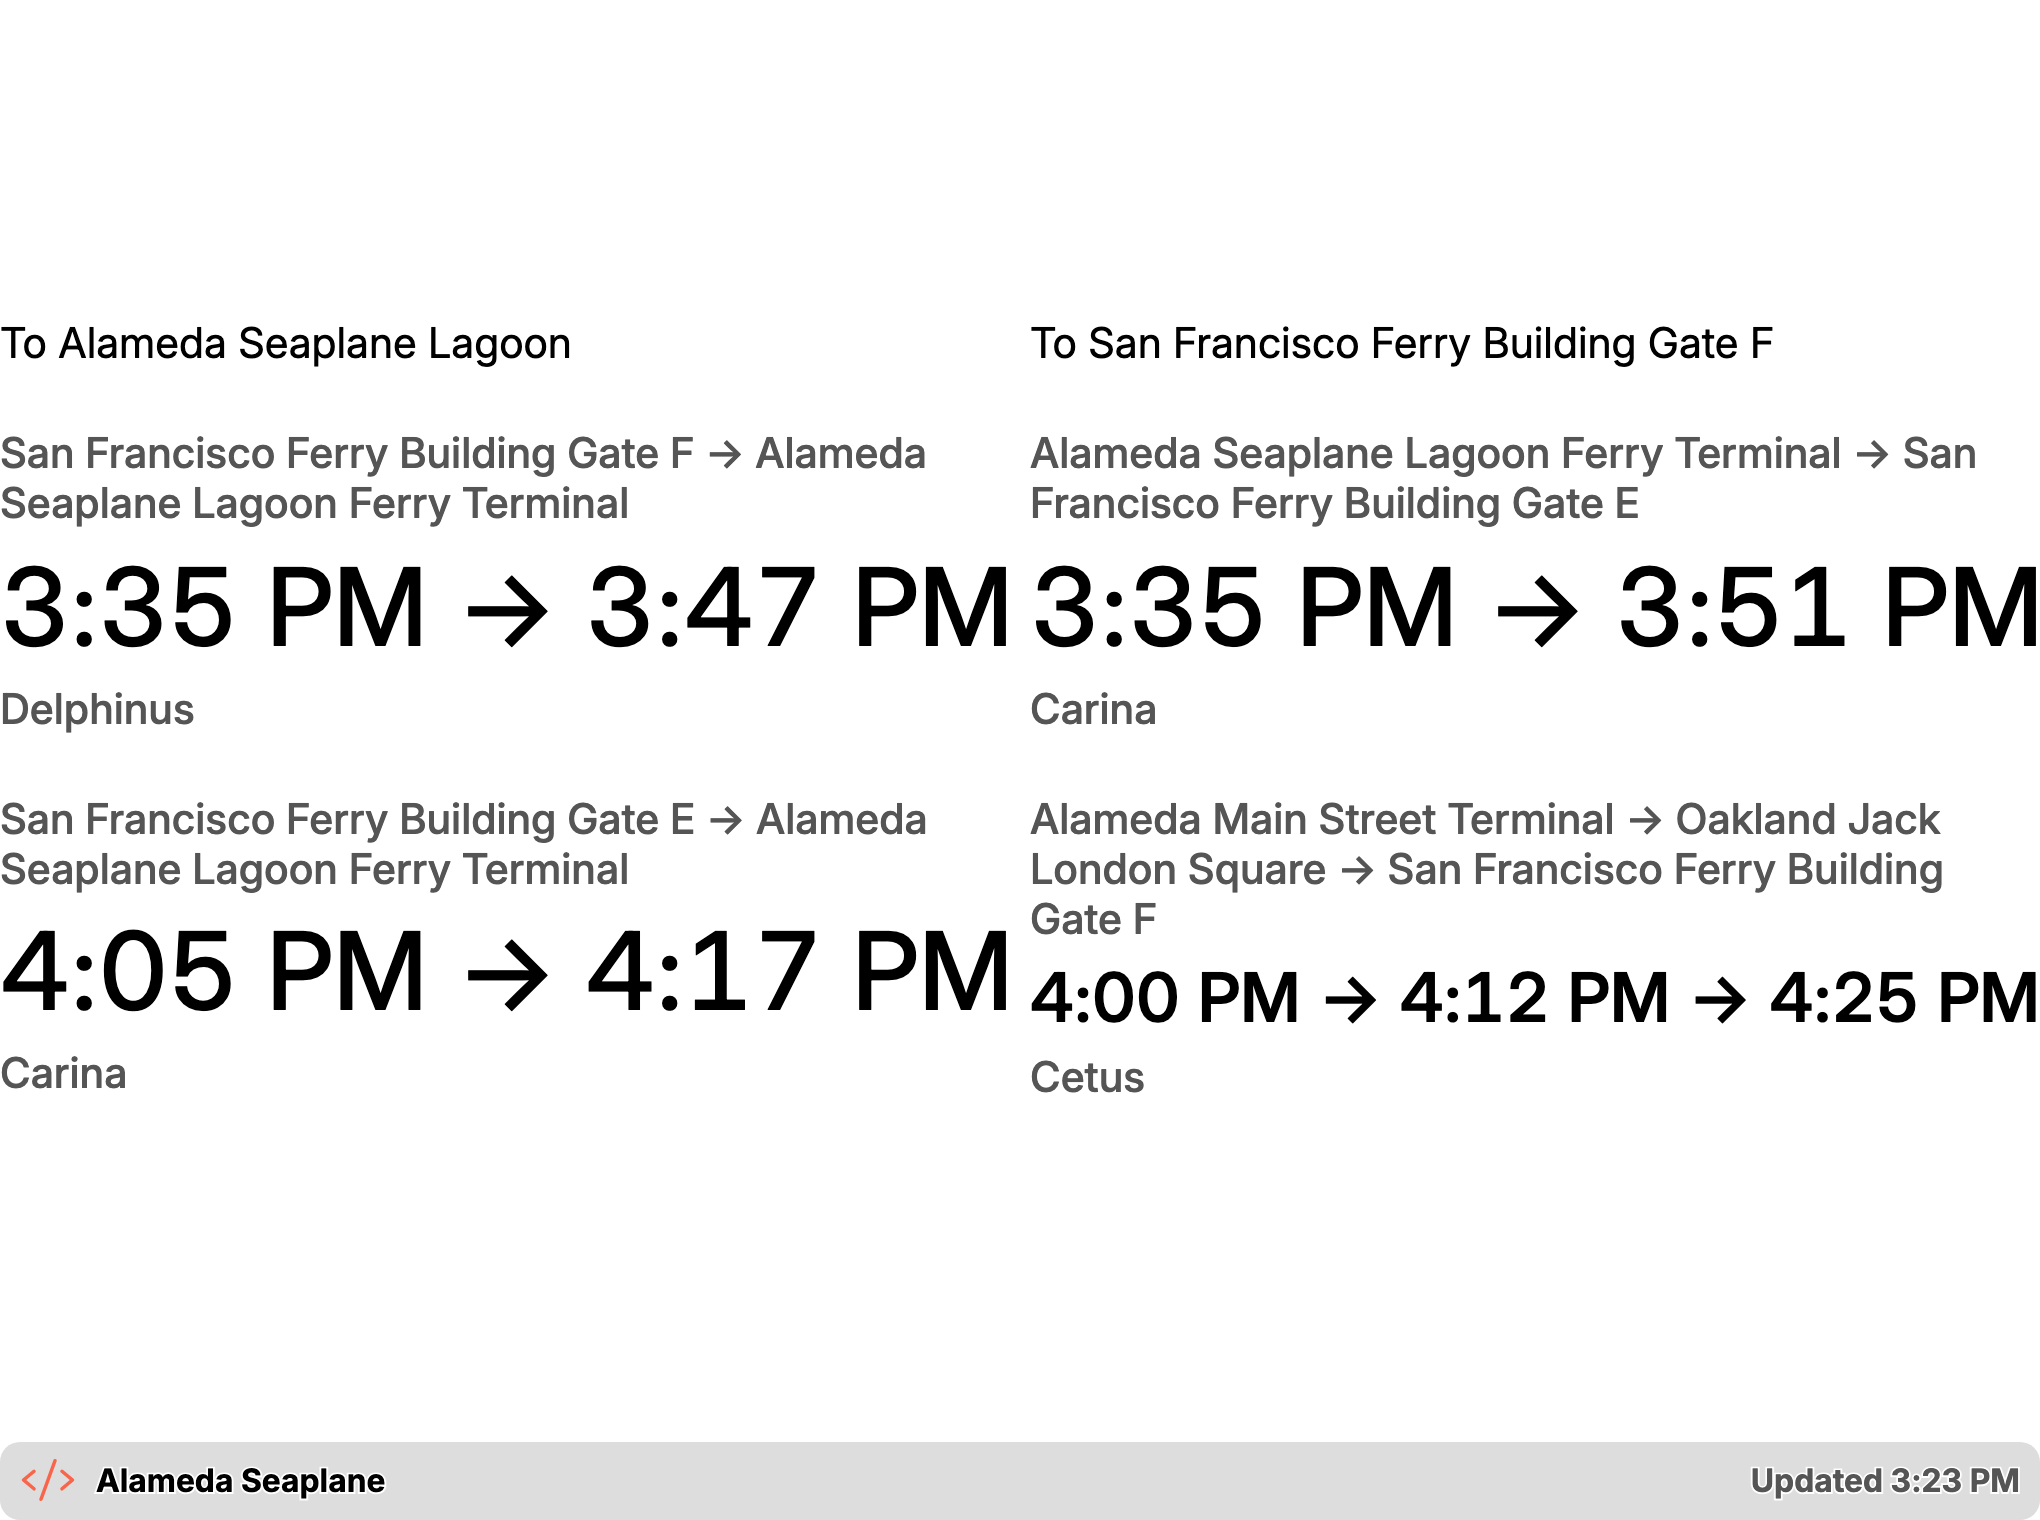
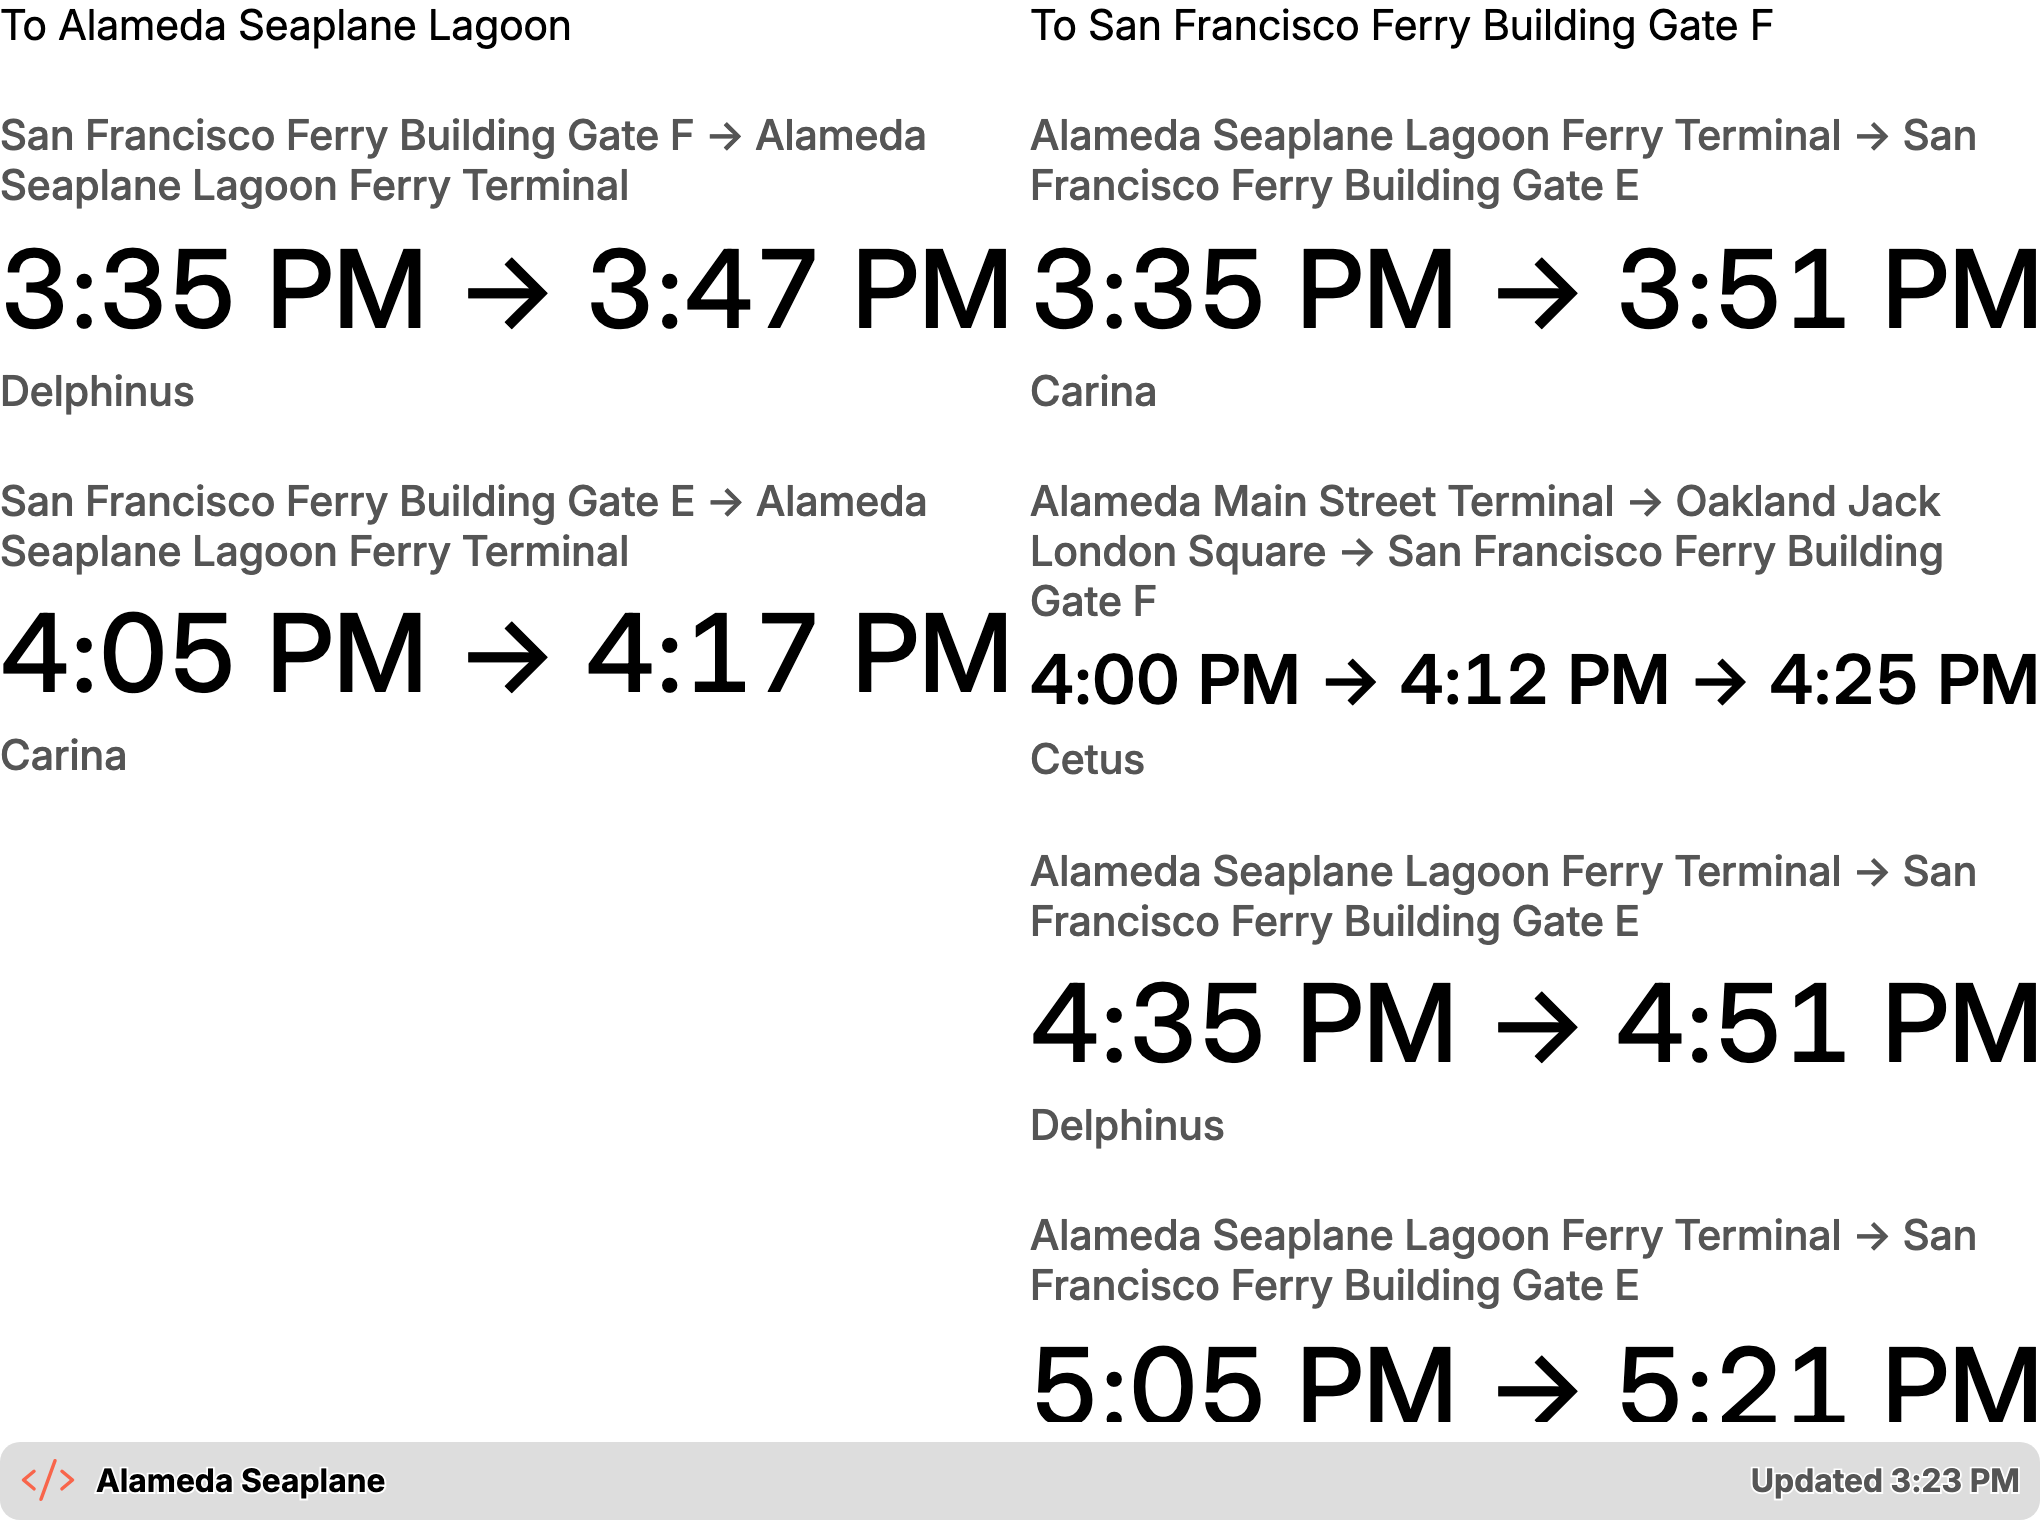
Fix full.liquid overflow at max trip count, address code-review findings
The 2-trip sample fixture never exercised full.liquid's own limit:4,
masking real overflow: TRMNL X portrait clipped content and OG Plus
landscape silently truncated the 3rd/4th trip. Extend the fixture to
4 trips/direction and cap full.liquid to 2 by default, only revealing
3-4 on TRMNL X landscape (the one size/orientation with room), verified
by re-rendering screenshots.

Also cleans up smaller review findings: README's OG Plus portrait
verification overclaim, stale flat-path wording in mise.toml/package.json,
a dead `key` field and hand-copied portrait viewport in screenshots.mjs,
and parallelizes its render loop (~24s+ -> ~7s).

Claude-Session: https://claude.ai/code/session_019TEZznGssZL1twfQ2Fc4TT

diff --git a/README.md b/README.md
@@ -5,8 +5,8 @@ arrivals for any Swiftly agency + route. Built for the SF Bay Ferry Alameda
 Seaplane route (agency `sfbay-ferry`, route `19417` — the default smoketest
 target), but the agency and route are TRMNL plugin inputs, so one install of
 this recipe can be pointed at any route on any Swiftly agency you have an API
-key for. Layouts are verified on both TRMNL X and TRMNL OG/OG Plus, in
-landscape and portrait — see [Layouts](#layouts) below.
+key for. Layouts are verified on TRMNL X (landscape and portrait) and TRMNL
+OG/OG Plus (landscape) — see [Layouts](#layouts) below.
 
 ## About Swiftly
 
@@ -89,7 +89,7 @@ The plugin itself lives at the repo root (it's the one real deployable here):
 
 | File | Shows |
 |---|---|
-| `src/full.liquid` | Full (800×480) layout — up to 4 trips per direction |
+| `src/full.liquid` | Full (800×480) layout — 2 trips per direction, up to 4 on TRMNL X landscape |
 | `src/half_horizontal.liquid` | Half Horizontal (800×240) — next trip per direction |
 | `src/half_vertical.liquid` | Half Vertical (400×480) — up to 2 trips per direction, stacked |
 | `src/quadrant.liquid` | Quadrant (400×240) — next trip per direction, stacked |
